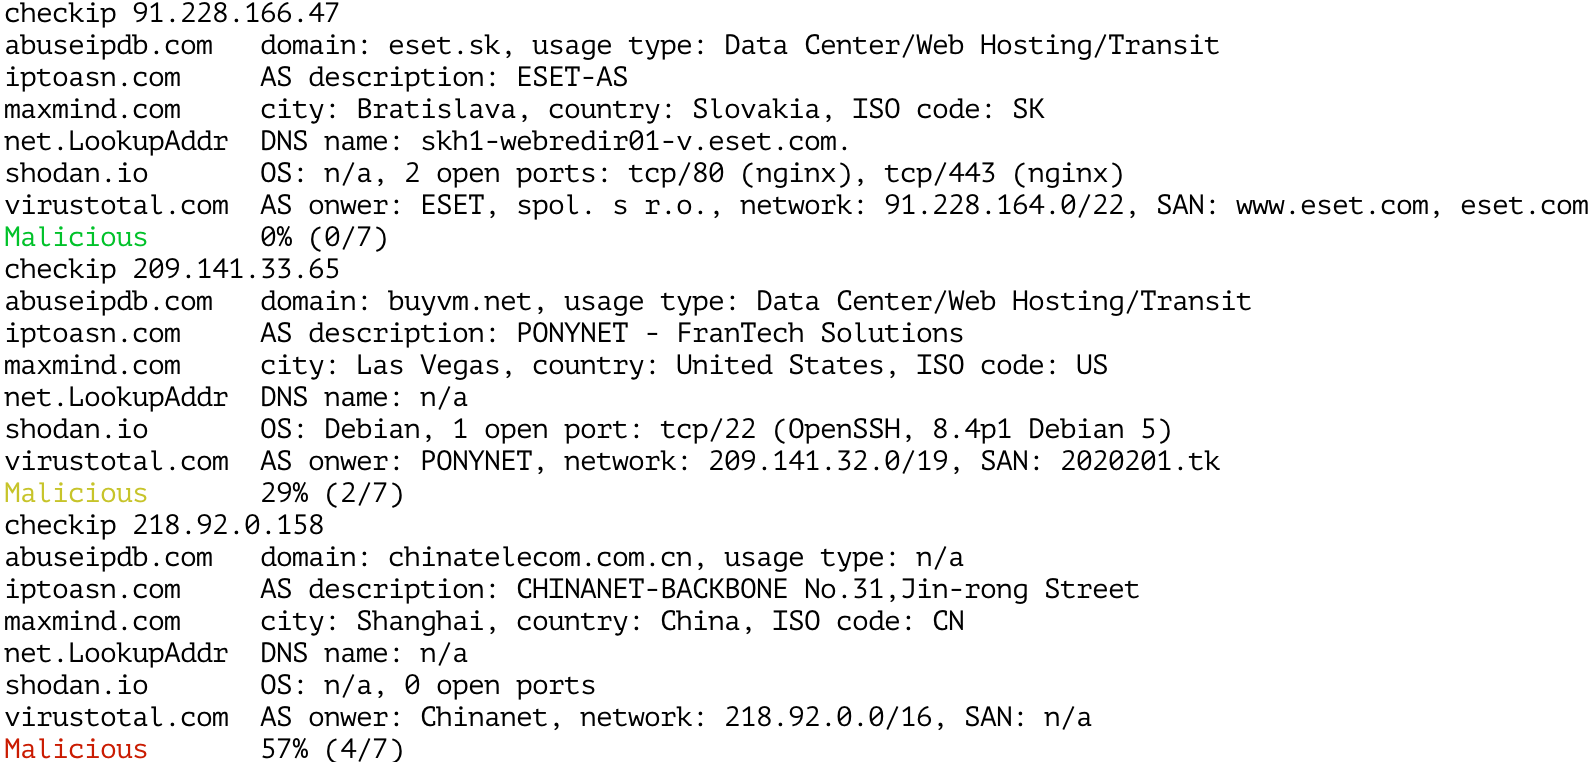
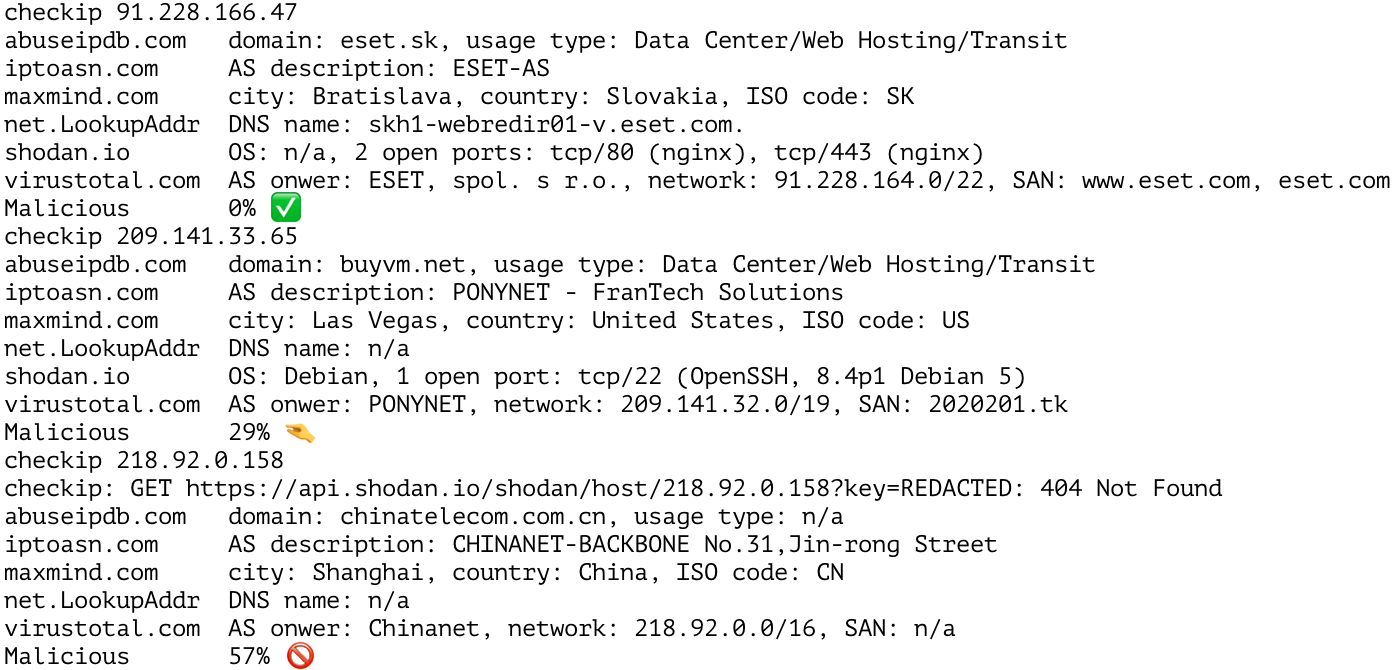
get rid of a dependency

Changed region(s): [[0.0, 0.0, 1.0, 1.0]]

diff --git a/cli/cli.go b/cli/cli.go
@@ -11,7 +11,6 @@ import (
 	"sync"
 
 	"github.com/jreisinger/checkip/check"
-	"github.com/logrusorgru/aurora"
 )
 
 func Run(checks []check.Check, ipaddr net.IP) (Results, []error) {
@@ -65,17 +64,16 @@ func (rs Results) PrintInfo() {
 
 // PrintProbabilityMalicious prints the probability the IP address is malicious.
 func (rs Results) PrintProbabilityMalicious() {
-	var msg string
+	msg := fmt.Sprintf("%s\t%.0f%% ", "Malicious", rs.probabilityMalicious()*100)
 	switch {
 	case rs.probabilityMalicious() <= 0.15:
-		msg = fmt.Sprint(aurora.Green("Malicious"))
+		msg += `✅`
 	case rs.probabilityMalicious() <= 0.50:
-		msg = fmt.Sprint(aurora.Yellow("Malicious"))
+		msg += `🤏`
 	default:
-		msg = fmt.Sprint(aurora.Red("Malicious"))
+		msg += `🚫`
 	}
-
-	fmt.Printf("%s\t%.0f%%\n", msg, rs.probabilityMalicious()*100)
+	fmt.Println(msg)
 }
 
 func (rs Results) probabilityMalicious() float64 {
